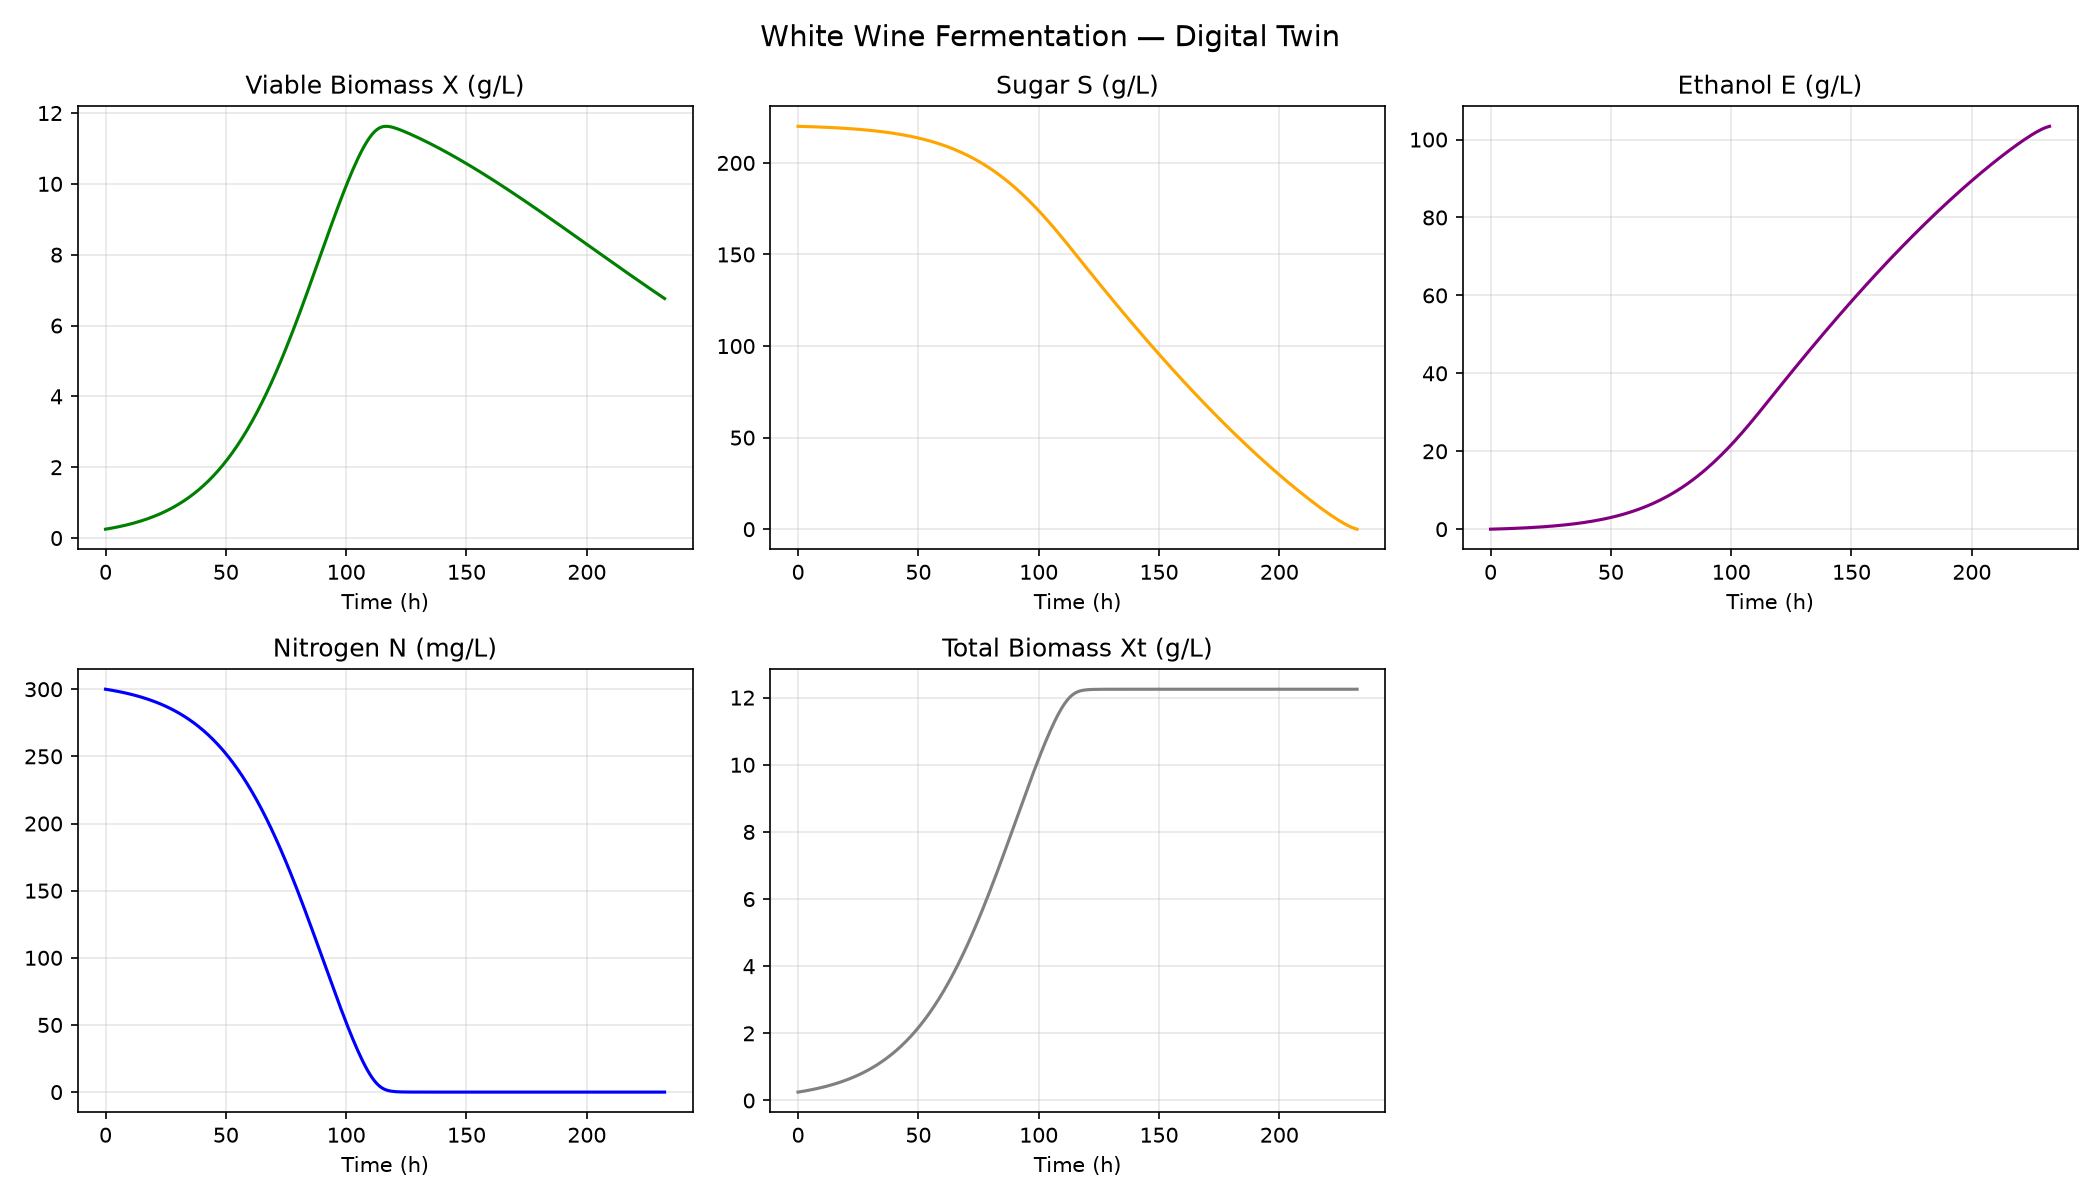
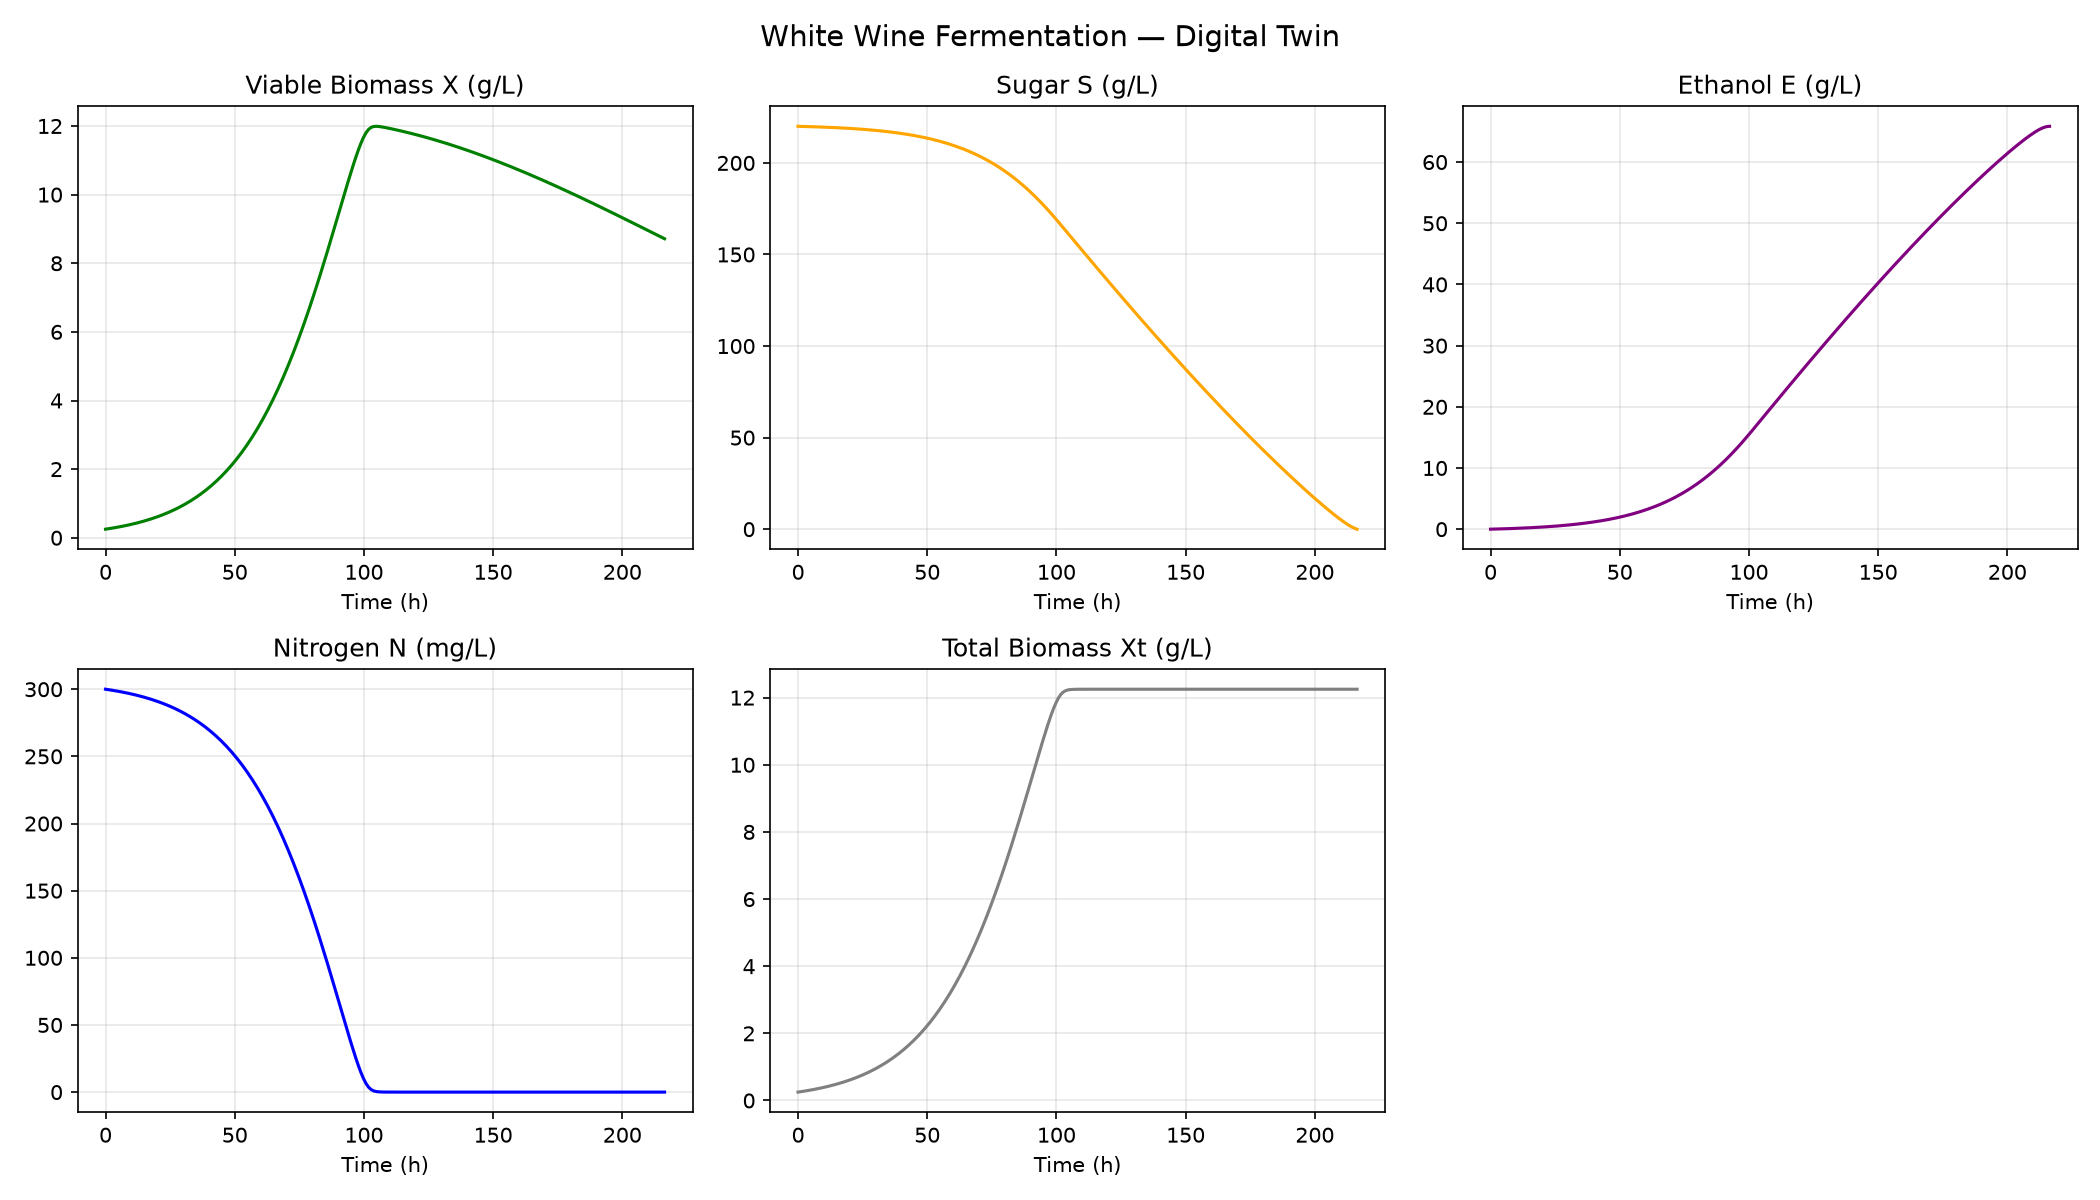
changed the ethanol yield to 0.55 because of coleman

diff --git a/src/process/simulator.py b/src/process/simulator.py
@@ -25,7 +25,7 @@ params = {
     "kd_prime": 0.000065,  # death rate (1/h) — viability decay
     # Stoichiometry
     "Yxn": 0.04,  # nitrogen consumed per biomass (4 g/L X from 100 mg/L N)
-    "Yes": 0.47,  # ethanol yield on sugar (g E / g S) — Gay-Lussac ~0.51
+    "Yes": 0.55,  # ethanol yield on sugar (g E / g S) — Gay-Lussac ~0.51 ,coleman ~0.55
     # Sugar uptake
     "Ks": 2.0,  # half-saturation for sugar (g/L)
     "vmax_s": 0.10,  # max sugar uptake rate (g S / g X / h)
@@ -91,10 +91,7 @@ def rhs(t, y, p):  # t as time,y the state vector,p as the parameters
         -v_s * X - p["MNT"] * X
     )  # the main sugar consumption is due to the yeast growth, but there is also a maintenance term that consumes sugar even when the yeast is not growing. This maintenance term is proportional to the biomass and has a rate constant MNT (maintenance rate). The maintenance term is important for long fermentations where the yeast may stop growing but still consume sugar for maintenance.
     dN = -(mu * X) / p["Yxn"]  # was -p["Yxn"] * mu * X
-    dE = (
-        p["Yes"] * v_s * X
-    )  # # only growth-associated sugar consumption converts to ethanol;
-    # maintenance-associated sugar (MNT) is respired/used for cell
+    dE = p["Yes"] * (v_s + p["MNT"]) * X  # anaerobic glycolisis->ethanol+co2
 
     return [dX, dXt, dS, dN, dE]
 

diff --git a/README.md b/README.md
@@ -113,3 +113,11 @@ Because the Phase 2 CFD-lite model shows a real spatial temperature gradient
 2. Run the Phase 2 spatial model **once** with T* as boundary condition.
 3. Extract the resulting temperature gradient across tank height (ΔT, base vs top)
    over the fermentation window.
+
+
+
+Removing the maintenance term from ethanol production had a larger-than-expected
+effect on stuck/complete outcomes (5/15 → 3/15 stuck points), due to an indirect
+feedback: lower ethanol accumulation reduces the ethanol-driven death rate (kd),
+allowing viable biomass to persist longer and consume more sugar before dying
+illustrating the coupled nature of the ODE system beyond the directly edited term.
